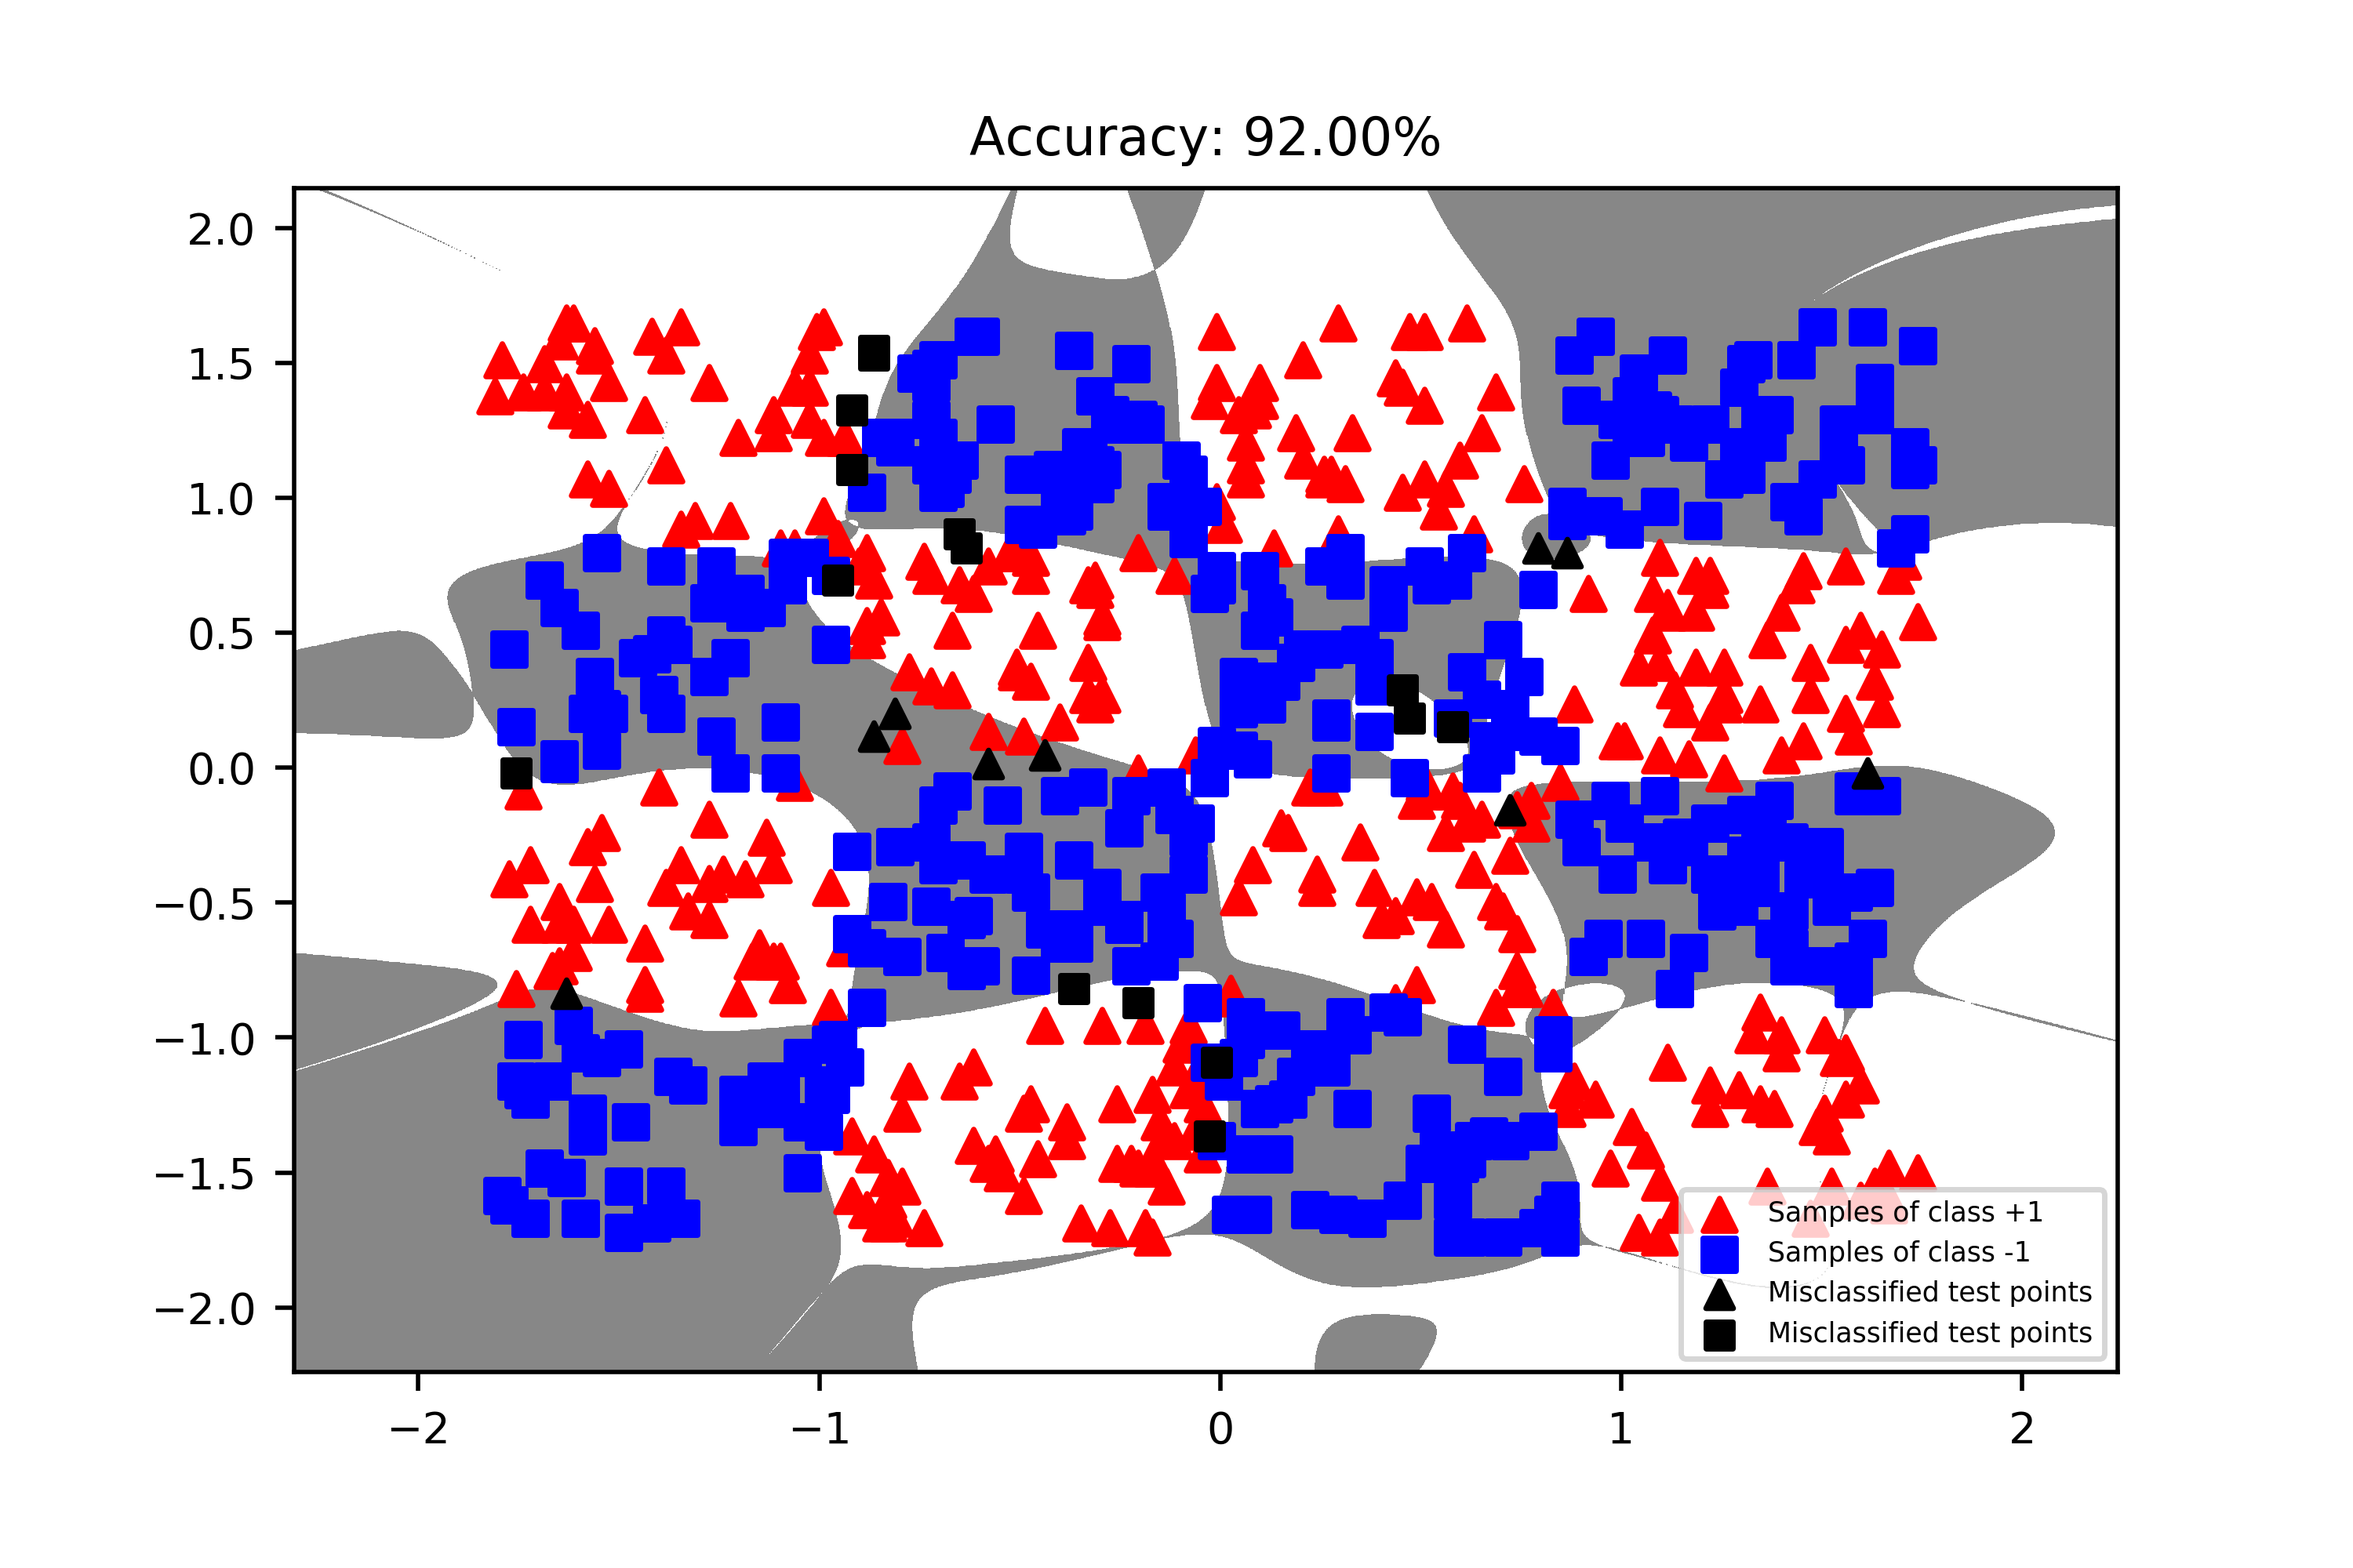
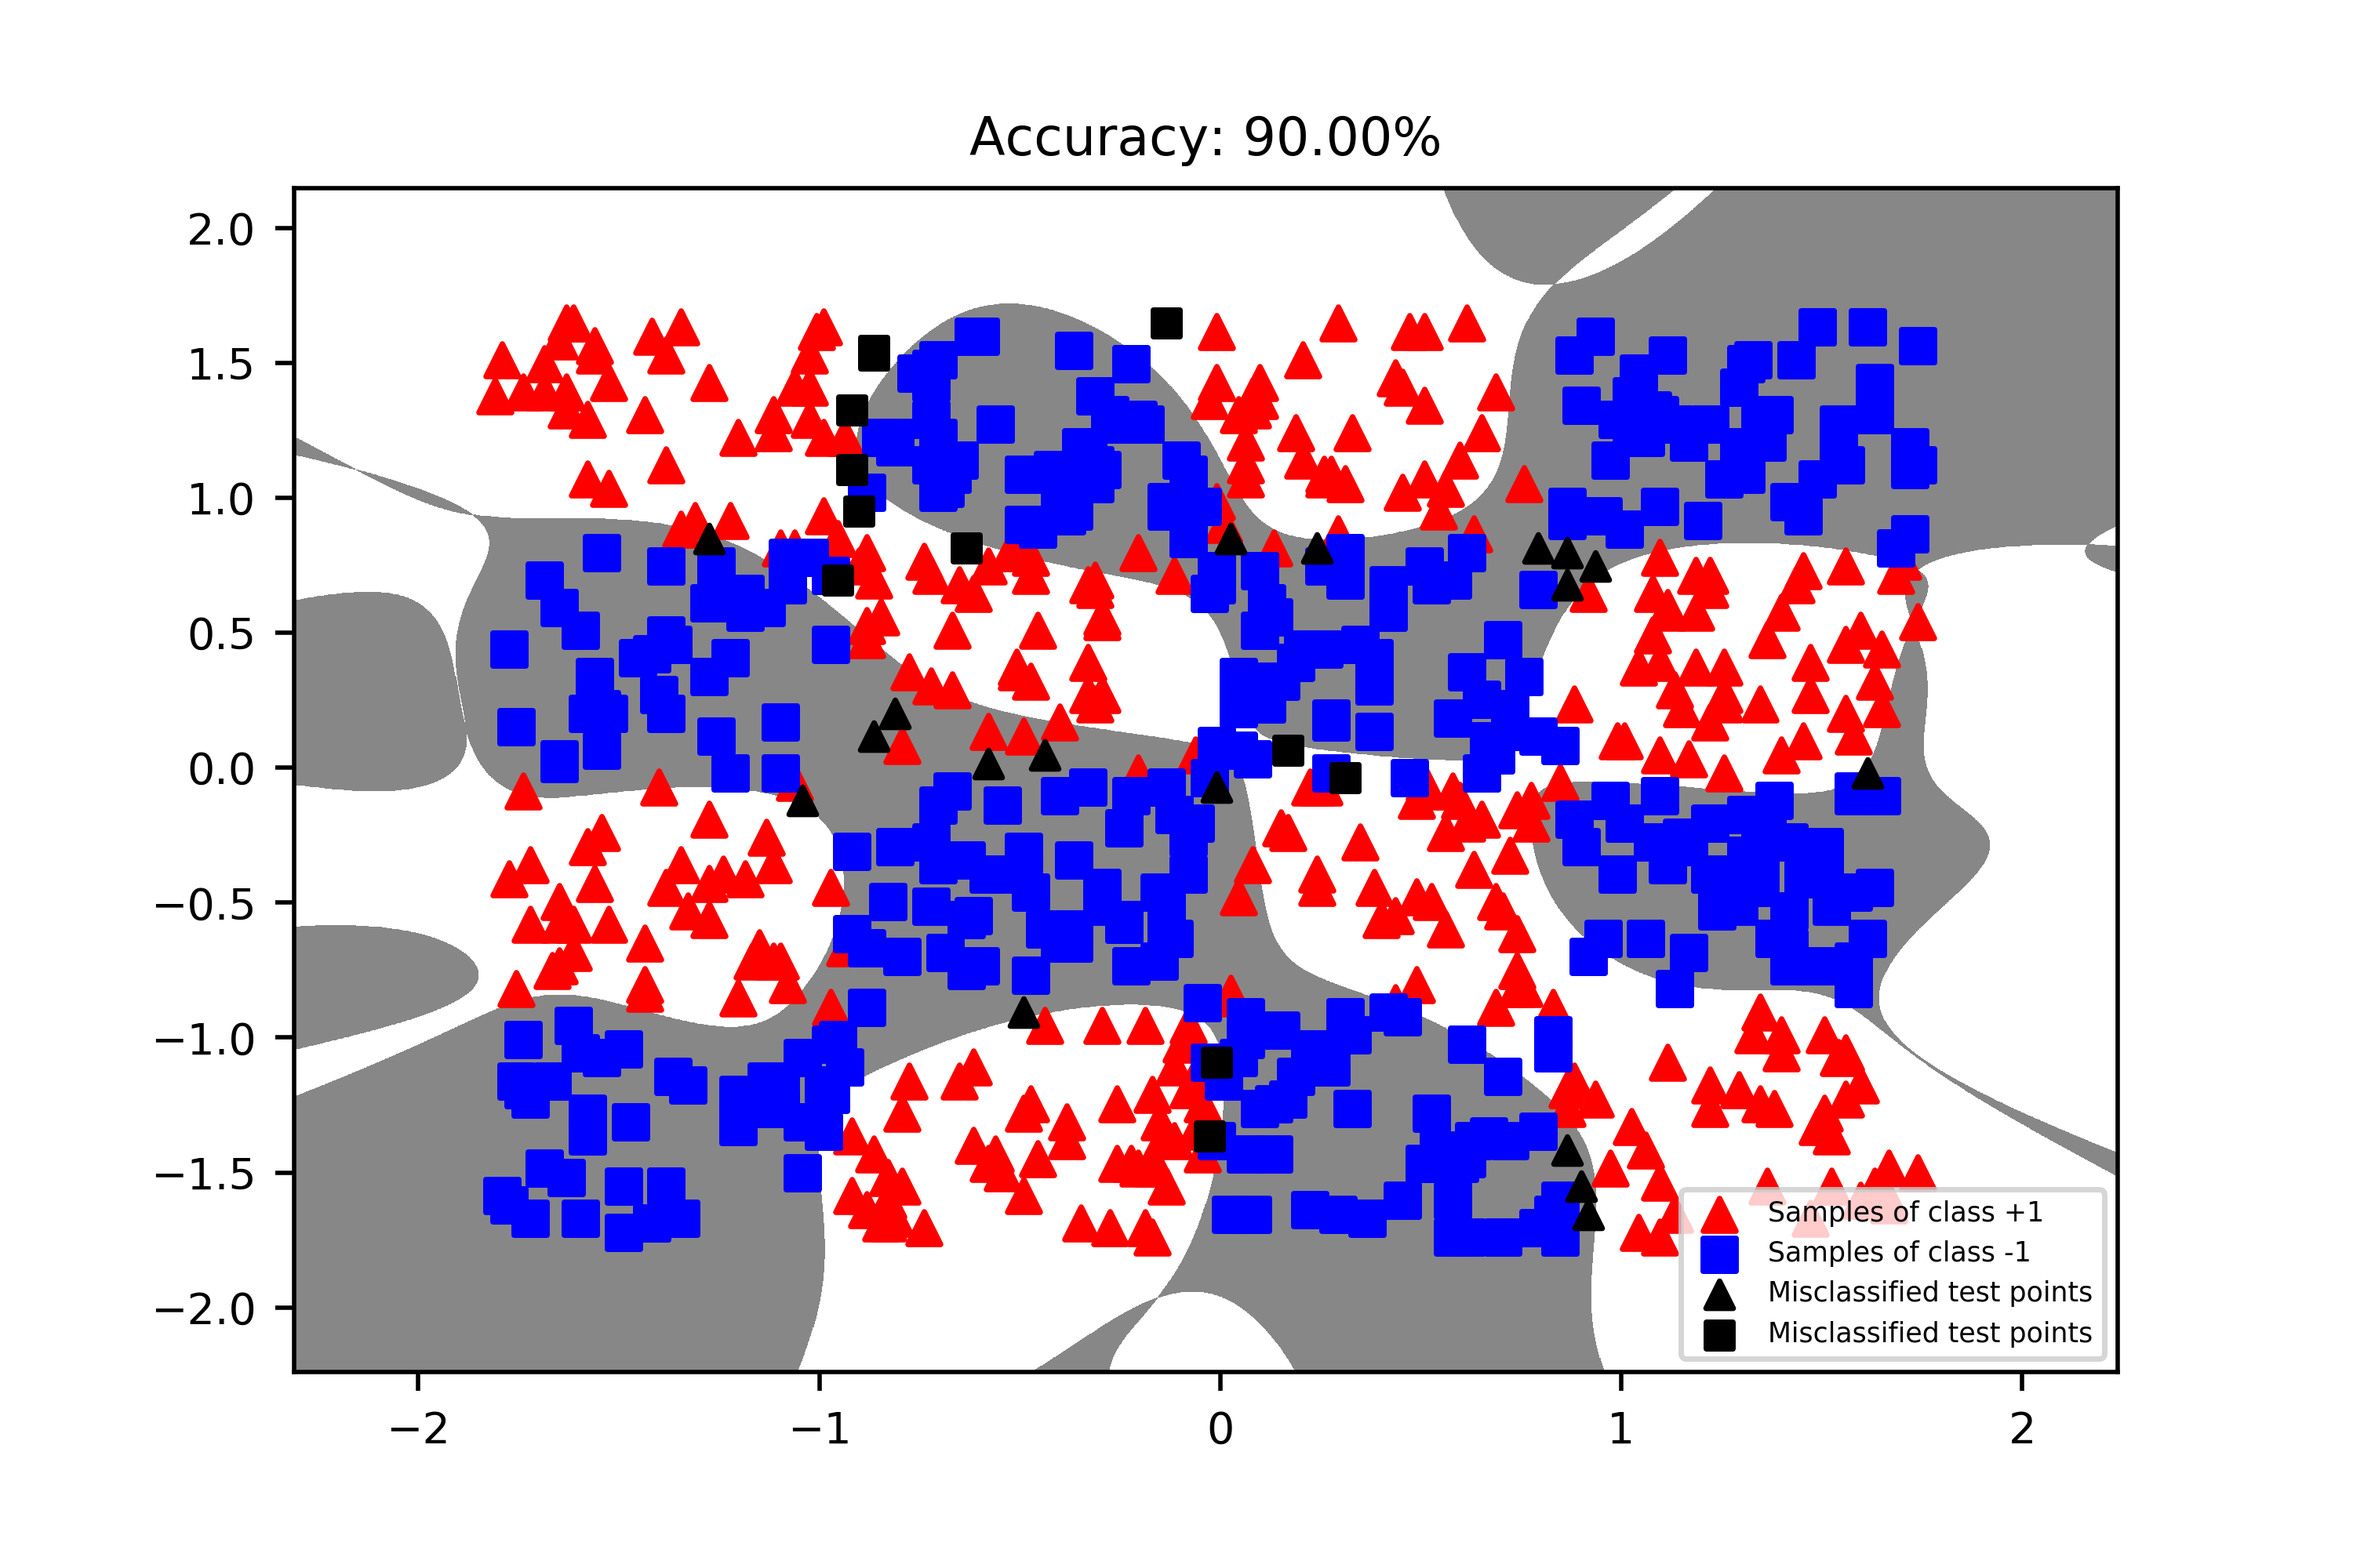
Fixed checkerboard's figures for experiments of RKNN-TSVM.

diff --git a/ch5.tex b/ch5.tex
@@ -318,8 +318,8 @@ F_F = \frac{(N - 1)\chi^2_F}{N(k - 1) - \chi^2_F}
  \end{figure}
 \begin{figure}[!t]
 	\centering
-	\subfloat[نسخه غیر خطی \lr{WLTSVM} ($c=2^{-3}, k=8, \sigma=2^{0}$)]{\includegraphics[width=0.5\textwidth]{WLTSVM-Ripley}}
-	\subfloat[نسخه غیر خطی \lr{RKNN-TSVM} ($c_{1}=2^{-7}, c_{2}=2^{-6}, c_{3}=2^{-6}, k=10, \sigma=2^{1}$)]{\includegraphics[width=0.5\textwidth]{RKNN-TSVM-Ripley}}
+	\subfloat[نسخه غیر خطی \lr{WLTSVM} ($c=2^{-3}, k=8, \sigma=2^{0}$)]{\includegraphics[width=0.5\textwidth]{WLTSVM-Check}}
+	\subfloat[نسخه غیر خطی \lr{RKNN-TSVM} ($c_{1}=2^{-7}, c_{2}=2^{-6}, c_{3}=2^{-6}, k=10, \sigma=2^{1}$)]{\includegraphics[width=0.5\textwidth]{RKNN-TSVM-Check}}
 	\caption{ناحیه تصمیم روش  \lr{WLTSVM} و \lr{RKNN-TSVM} روی مجموعه داده \lr{Checkerboard} با تابع هسته \lr{RBF}}
 	\label{fig:WLTSVM-vs-RKNN-TSVM-C}
 \end{figure}
